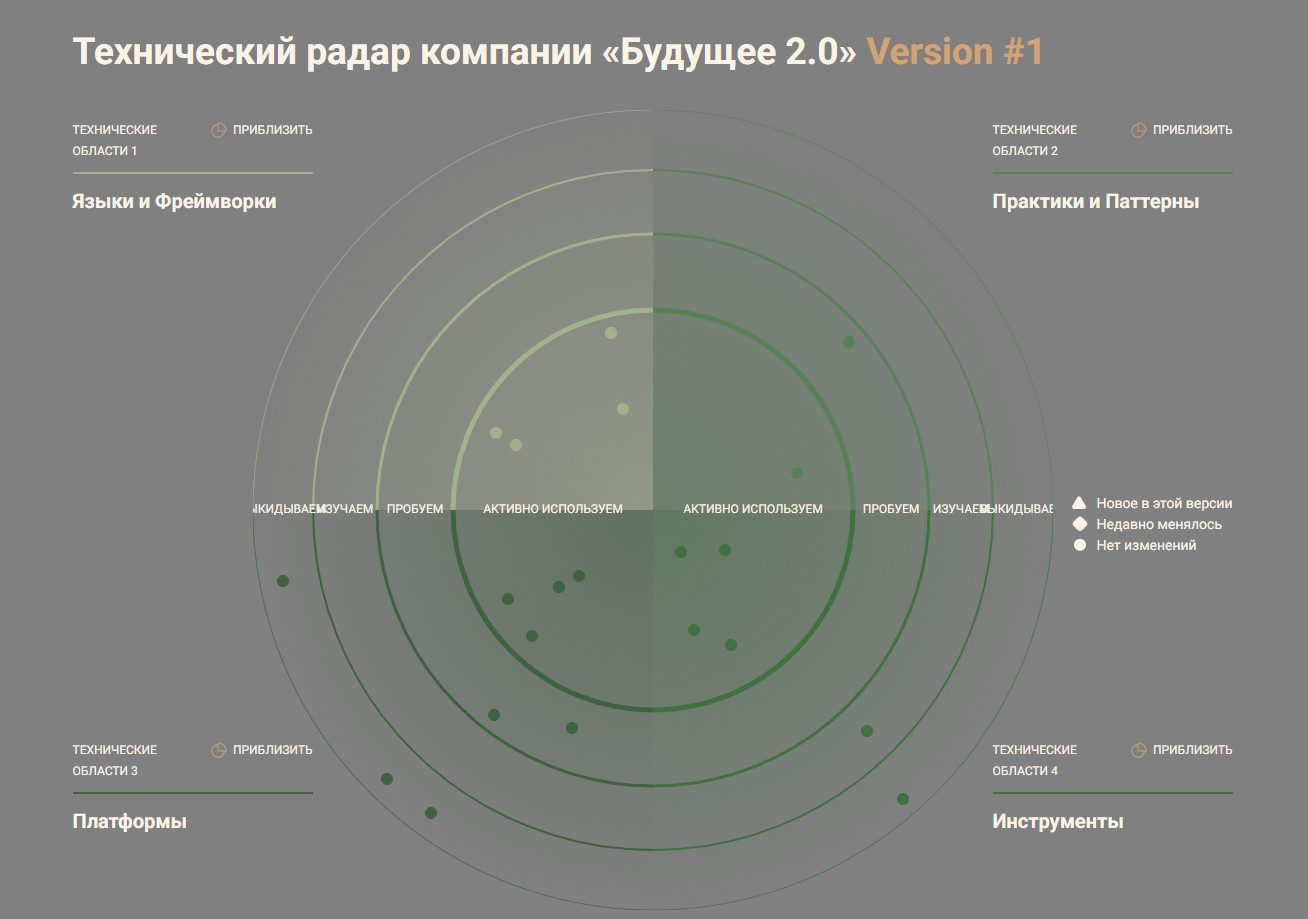
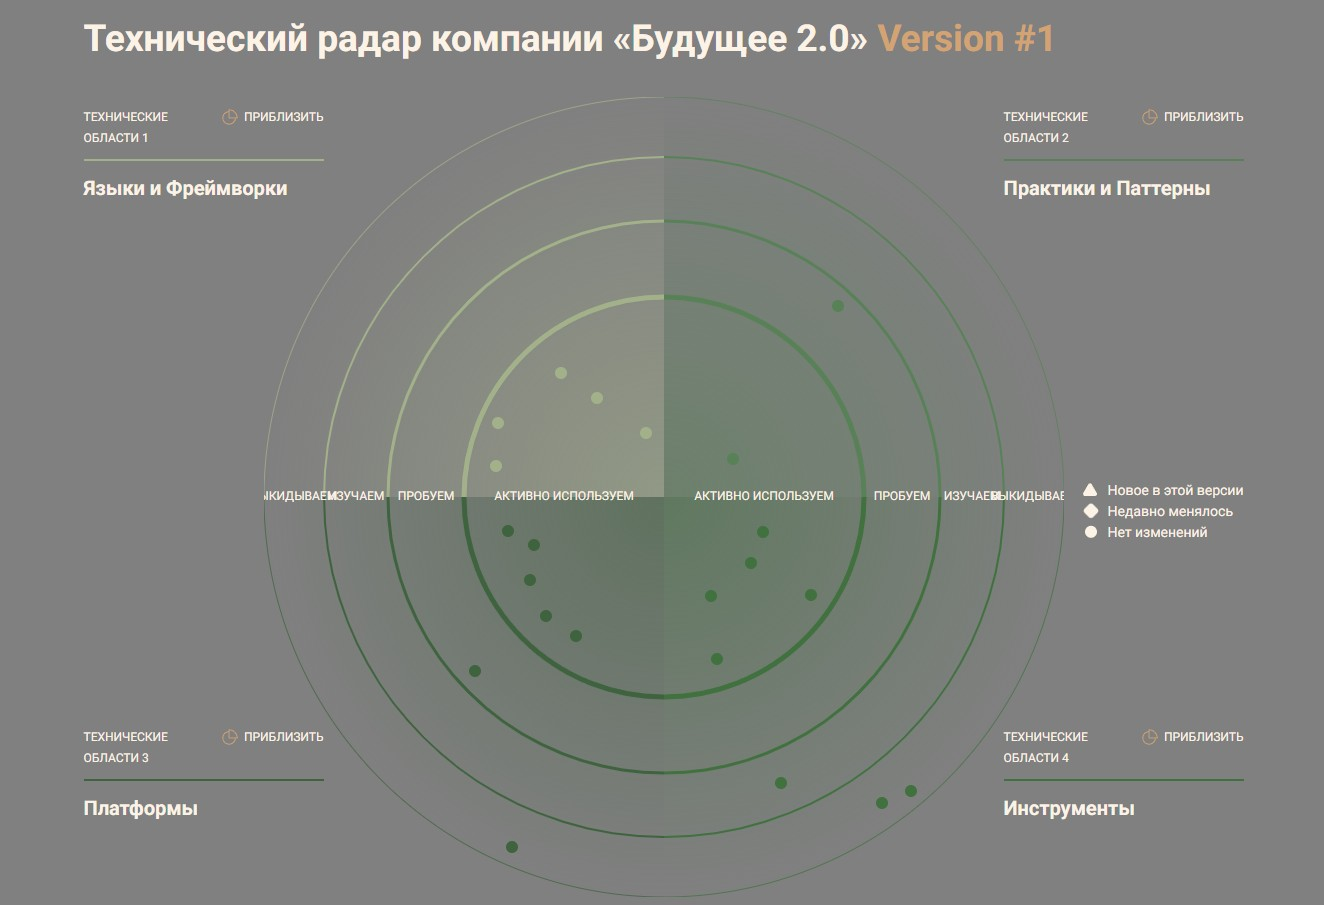
task 3 - updated tech radar

diff --git a/Task3/README.md b/Task3/README.md
@@ -6,29 +6,37 @@
 
 ![Radar2](radar2.jpg)
 
+Технологии, которые уже используются, помечены тегом "old":
+
+![Old](radar_old.jpg)
+
+Технологии, которые планируется внедрять, помечены тегом "new":
+
+![New](radar_new.jpg)
+
 #### Связь технологий с бизнес-задачами
 
-1. Быстрая отчетность
-
-- Data Lakehouse/Apache Iceberg
-- Data Mesh
-- Yandex Datalens
-- Apache Airflow
-
-2. Добавление нового функционала и подключение новых бизнесов
-
-- Kong Gateway
-- Apache Kafka
-- Keycloak
-- RAG
-
-3. Снижение издержек на разработку и поддержку системы
-
-- Обновление технологического стека
-- Terraform
-- Kubernetes
-- Prometheus/Grafana
-
+| Технология           | Описание | Бизнес-задача |
+| -------------------- | -------- | ------------- |
+| Golang, Java, Python | Языки для бекенд-разработки | Совместимость с текущими сервисами (ИИ, финтех), создание новых сервисов |
+| JavaScript, ReactJS  | Языки для фронтенд-разработки | Создание новых сервисов (портал самообслуживания) |
+| Apache Kafka         | Распределённый брокер сообщений | Асинхронный обмен событиями между доменами |
+| Apache Camel         | Платформа интеграции приложений | Интеграция с унаследованными системами. Можно будет отказаться по мере избавления от легаси систем |
+| Data Lakehouse с Apache Iceberg | Гибридное решение для хранения данных | Быстрое формирование отчётности |
+| Data Mesh            | Децентрализованный подход к построению распределенной архитектуры данных | Интеграция новых бизнесов, автономное развитие направлений |
+| Keycloak             | Продукт для реализации single sign-on с возможностью управления доступом | Единая точка аутентификации и авторизации, централизованное управление доступом к данным, безопасная интеграция партнеров |
+| Kong Gateway         | API шлюз на базе Nginx | Единый API Gateway для всех доменов, безопасная интеграция партнеров, контроль трафика между сервисами |
+| Apache Airflow       | Платформа управления обработкой данных | Разработка систем обработки данных. Построение витрины данных, отчётов. Подготовка данных для машинного обучения |
+| Docker               | Платформа для контейнеризации приложений | Масштабируемость сервисов, снижение времени развертывания |
+| Kuberbetes           | Оркестратор контейнеров | Масштабируемость сервисов, снижение времени развертывания |
+| Terraform            | Инструмент для управления инфраструктурой как кодом | Повторяемость развертывания инфраструктуры, снижение ручного труда, повышение скорости развертывания |
+| Prometheus + Grafana | Связка инструментов для мониторинга IT-инфраструктуры | Наблюдаемость пайплайнов и платформ: сбор метрик, логов, трейсов; контроль SLA/SLO |
+| RAG                  | Технология, которая соединяет языковую модель с внешней базой знаний | Увеличить эффект от внедрения ИИ в бизнес и повысить точность ответов LLM |
+| GraphQL              | Язык запросов для API-интерфейсов и среда, в которой они выполняются | Унификация API |
+| Power BI             | Платформа для анализа данных, их визуализации и создания интерактивных отчетов | Используется в текущей BI-системе. Портал самообслуживания, визуализация метрик |
+| Power Builder        | Интегрированная среда разработки приложений баз данных | Используется для доступа операторов в клиниках к данным. Планируется отказ от устаревшей технологии, для которой трудно найти разработчиков |
+| PostgreSQL           | Реляционная система управления базами данных | Построение DWH внутри каждого домена |
+| MSSQL Server 2008    | Реляционная система управления базами данных | Устаревшая версия, используемая в монолитном DWH. Требует замены ввиду отсутствия поддержки и высоких рисков безопасности. |
 
 ### 2. Роадмап
 

diff --git a/Task3/tech_radar/radar/2025-12-19/javascript.md b/Task3/tech_radar/radar/2025-12-19/javascript.md
@@ -1,6 +1,6 @@
 ---
-title: "Java"
+title: "JavaScript"
 ring: adopt
 quadrant: languages-and-frameworks
-tags: [backend, old]
+tags: [frontend, new]
 ---

diff --git a/Task3/tech_radar/radar/2025-12-19/react.md b/Task3/tech_radar/radar/2025-12-19/react.md
@@ -1,6 +1,6 @@
 ---
-title: "Vue.js"
+title: "ReactJS"
 ring: adopt
 quadrant: languages-and-frameworks
-tags: [frontend]
+tags: [frontend, new]
 ---

diff --git a/Task3/tech_radar/radar/2025-12-19/kong.md b/Task3/tech_radar/radar/2025-12-19/kong.md
@@ -2,5 +2,5 @@
 title: "Kong API Gateway"
 ring: adopt
 quadrant: platforms-and-operations
-tags: [gateway]
+tags: [gateway, new]
 ---

diff --git a/Task3/tech_radar/radar/2025-12-19/power-bi.md b/Task3/tech_radar/radar/2025-12-19/power-bi.md
@@ -1,6 +1,6 @@
 ---
 title: "Power BI"
-ring: hold
+ring: adopt
 quadrant: platforms-and-operations
-tags: [BI]
+tags: [BI, old]
 ---

diff --git a/Task3/tech_radar/radar/2025-12-19/apache-kafka.md b/Task3/tech_radar/radar/2025-12-19/apache-kafka.md
@@ -2,5 +2,5 @@
 title: "Apache Kafka"
 ring: adopt
 quadrant: platforms-and-operations
-tags: [queue]
+tags: [queue, new]
 ---

diff --git a/Task3/tech_radar/radar/2025-12-19/apache-camel.md b/Task3/tech_radar/radar/2025-12-19/apache-camel.md
@@ -2,5 +2,5 @@
 title: "Apache Camel"
 ring: hold
 quadrant: platforms-and-operations
-tags: [queue]
+tags: [queue, old]
 ---

diff --git a/Task3/tech_radar/radar/2025-12-19/golang.md b/Task3/tech_radar/radar/2025-12-19/golang.md
@@ -2,5 +2,5 @@
 title: "Golang"
 ring: adopt
 quadrant: languages-and-frameworks
-tags: [backend]
+tags: [backend, old]
 ---

diff --git a/Task3/tech_radar/radar/2025-12-19/python.md b/Task3/tech_radar/radar/2025-12-19/python.md
@@ -2,5 +2,5 @@
 title: "Python"
 ring: adopt
 quadrant: languages-and-frameworks
-tags: [backend]
+tags: [backend, old]
 ---

diff --git a/Task3/tech_radar/radar/2025-12-19/terraform.md b/Task3/tech_radar/radar/2025-12-19/terraform.md
@@ -2,5 +2,5 @@
 title: "Terraform"
 ring: trial
 quadrant: platforms-and-operations
-tags: []
+tags: [devops, new]
 ---

diff --git a/Task3/tech_radar/radar/2025-12-19/keycloak.md b/Task3/tech_radar/radar/2025-12-19/keycloak.md
@@ -2,5 +2,5 @@
 title: "Keycloak"
 ring: adopt
 quadrant: platforms-and-operations
-tags: [IAM]
+tags: [IAM, new]
 ---
